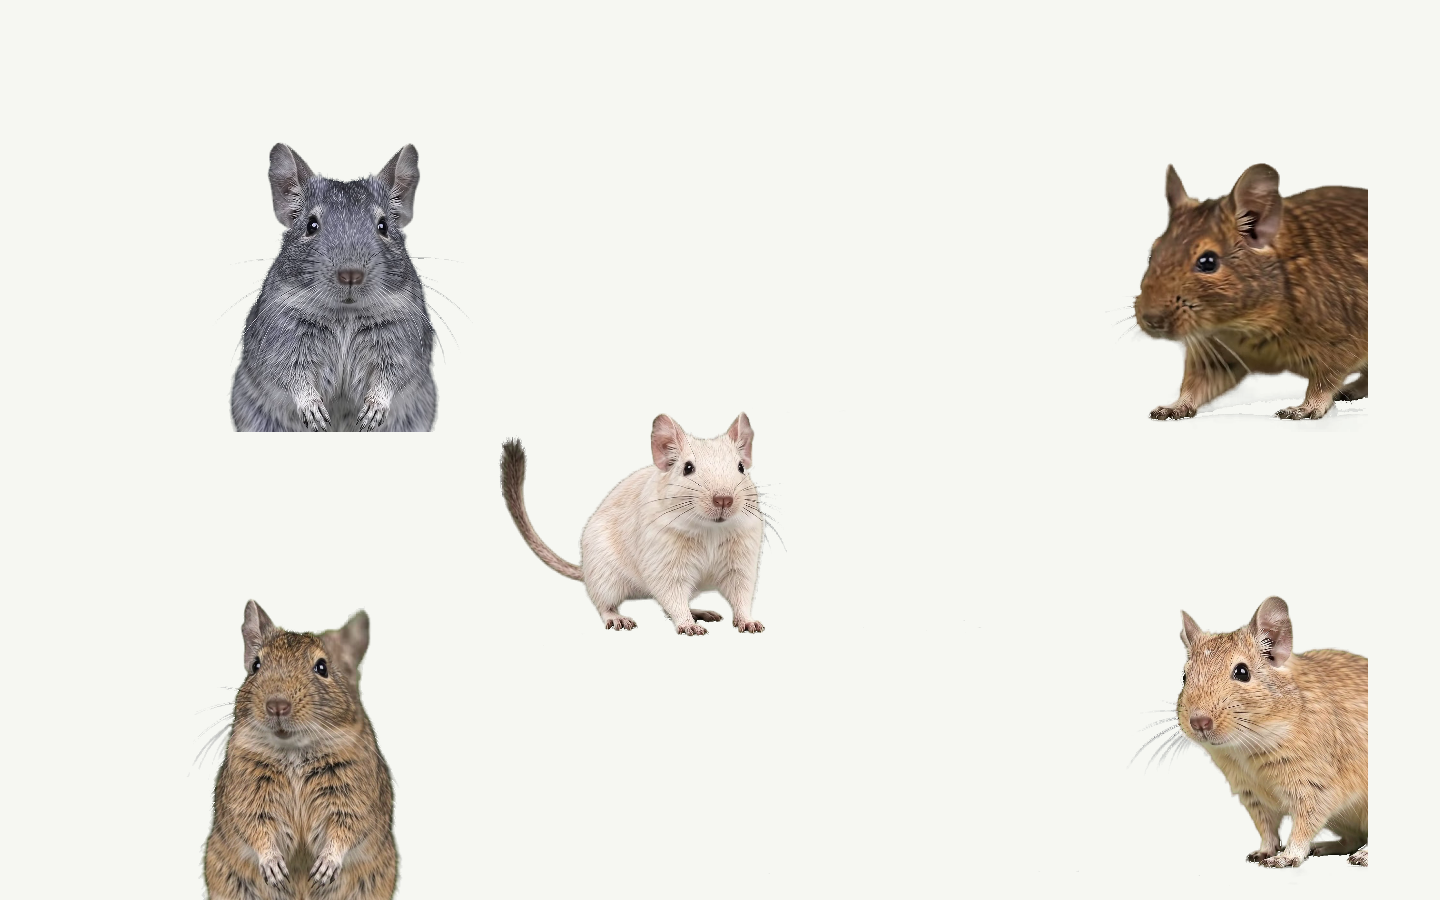
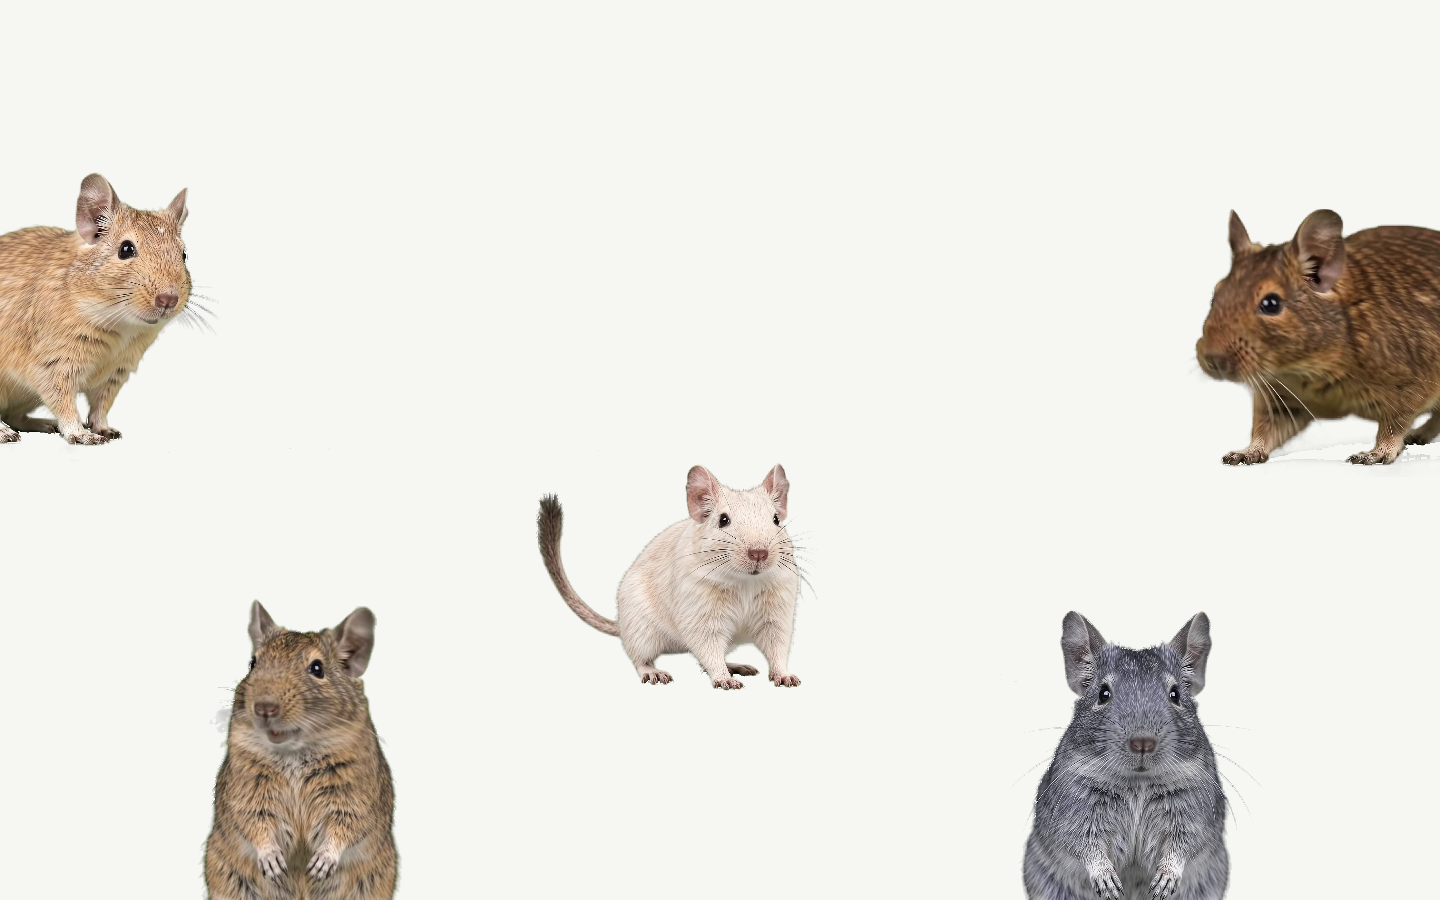
Anchor swarm animations to screen edges

diff --git a/electron/main.js b/electron/main.js
@@ -455,17 +455,22 @@ function playNext(manual = false) {
   const epoch = playbackEpoch;
   const colors = selectedColors();
   const usedColors = new Set();
-  const placements = settings.modes.chaos
-    ? [{ left: 0, bottom: 0 }, { left: 0.52, bottom: 0 }, { left: 0.26, bottom: 0.28 },
-      { left: 0.02, bottom: 0.52 }, { left: 0.52, bottom: 0.52 }]
-    : [{ left: 0, bottom: 0 }];
   const scale = settings.modes.chaos
     ? Math.min(0.48, Math.max(0.34, sizes[settings.size].scale * 0.72))
     : sizes[settings.size].scale;
+  const placements = settings.modes.chaos
+    ? [
+      { motion: motions[0], left: 0, bottom: 0 },
+      { motion: motions[0], left: 1 - scale, bottom: 0 },
+      { motion: motions[1], left: 0, bottom: 0.47, flip: true },
+      { motion: motions[1], left: 1 - scale, bottom: 0.47 },
+      { motion: motions[2], left: (1 - scale) / 2, bottom: 0.22 },
+    ]
+    : [{ bottom: 0 }];
   const clips = placements.map((position) => {
     const motionChoices = motions.map((_, index) => index).filter((index) => index !== lastMotion);
-    lastMotion = motionChoices[Math.floor(Math.random() * motionChoices.length)];
-    const motion = motions[lastMotion];
+    const motion = position.motion || motions[motionChoices[Math.floor(Math.random() * motionChoices.length)]];
+    lastMotion = motions.indexOf(motion);
     let choices = colors.filter((id) => id !== lastColor && !usedColors.has(id));
     if (choices.length === 0) choices = colors.filter((id) => id !== lastColor);
     if (choices.length === 0) choices = colors;
@@ -476,7 +481,7 @@ function playNext(manual = false) {
     const left = settings.modes.chaos ? position.left :
       motion.anchor === 'center' ? (1 - scale) / 2 : motion.anchor === 'right' ? 1 - scale : 0;
     return { url: require('node:url').pathToFileURL(file).href,
-      left, bottom: position.bottom, scale };
+      left, bottom: position.bottom, scale, flip: Boolean(position.flip) };
   });
   const display = screen.getDisplayNearestPoint(screen.getCursorScreenPoint());
   const { x, y, width, height } = display.bounds;

diff --git a/test/main-modes.test.js b/test/main-modes.test.js
@@ -98,7 +98,19 @@ test('tray switches Pomodoro, countdown visibility, and swarm playback', () => {
 
   item('デグー大発生モード').click();
   assert.equal(saved().modes.chaos, true);
-  assert.equal(overlay.sent.at(-1).payload.clips.length, 5);
+  const swarm = overlay.sent.at(-1).payload.clips;
+  assert.equal(swarm.length, 5);
+  const bottomPops = swarm.filter((clip) => clip.url.includes('-a-bottom-pop.webm'));
+  const sidePeeks = swarm.filter((clip) => clip.url.includes('-b-side-peek.webm'));
+  const centerHops = swarm.filter((clip) => clip.url.includes('-c-center-hop.webm'));
+  assert.equal(bottomPops.length, 2);
+  assert.equal(sidePeeks.length, 2);
+  assert.equal(centerHops.length, 1);
+  assert.ok(bottomPops.every((clip) => clip.bottom === 0));
+  assert.equal(sidePeeks[0].left, 0);
+  assert.equal(sidePeeks[0].flip, true);
+  assert.equal(sidePeeks[1].left, 1 - sidePeeks[1].scale);
+  assert.equal(sidePeeks[1].flip, false);
 
   item('モードの設定…').click();
   const dialog = windows.at(-1);

diff --git a/electron/overlay.js b/electron/overlay.js
@@ -32,6 +32,7 @@ window.degu.onPlay(({ clips: items }) => {
     clip.style.width = `${item.scale * 100}%`;
     clip.style.left = `${item.left * 100}%`;
     clip.style.bottom = `${item.bottom * 100}%`;
+    if (item.flip) clip.style.transform = 'scaleX(-1)';
     clip.addEventListener('ended', finished, { once: true });
     clip.addEventListener('error', finished, { once: true });
     clip.src = item.url;

diff --git a/docs/design/DESIGN.md b/docs/design/DESIGN.md
@@ -188,7 +188,9 @@ flowchart LR
 | --- | --- | --- | --- |
 | Mode settings | One bilingual form with quick tray toggles | `modes-ja.png`, `modes-en.png` | None at 500×600 |
 | Countdown | Optional small click-through overlay | `timer-focus.png` | None at 190×64 |
-| Swarm | Five separate animals visible together | `swarm.png` | None at 1440×900 |
+| Swarm | Side peeks meet the left/right screen edges; bottom pops meet the bottom edge; one hop remains inside | `swarm.png` | None at 1440×900 |
+
+In v0.5.1, the swarm slots follow each clip's entry direction. The left side-peek is mirrored so its cut edge lands on the left screen edge. A 1440×900 playback capture confirms the five clips decode and no animal is cut at an interior video boundary.
 | Tray guide | Clear steps in both languages on narrow screens | `guide-ja-mobile.png`, `guide-en-mobile.png` | None at 390 px and 320 px |
 
 ## Reference provenance / 参照元

diff --git a/CHANGELOG.md b/CHANGELOG.md
@@ -1,5 +1,15 @@
 # 更新履歴 / Changelog
 
+## v0.5.1 — 2026-09-24
+
+### 日本語
+
+- デグー大発生モードで、横から顔を出すデグーを画面の左右端に、下から出るデグーを画面下端に固定しました。左端のデグーは動画を左右反転して表示します。画面の途中で身体が切れて見える配置を修正しました。
+
+### English
+
+- Anchored side-peeking degus to the left and right screen edges and bottom-popping degus to the bottom edge in swarm mode. The left-side clip is mirrored. This fixes animals appearing cut off in the middle of the screen.
+
 ## v0.5.0 — 2026-09-24
 
 ### 日本語
